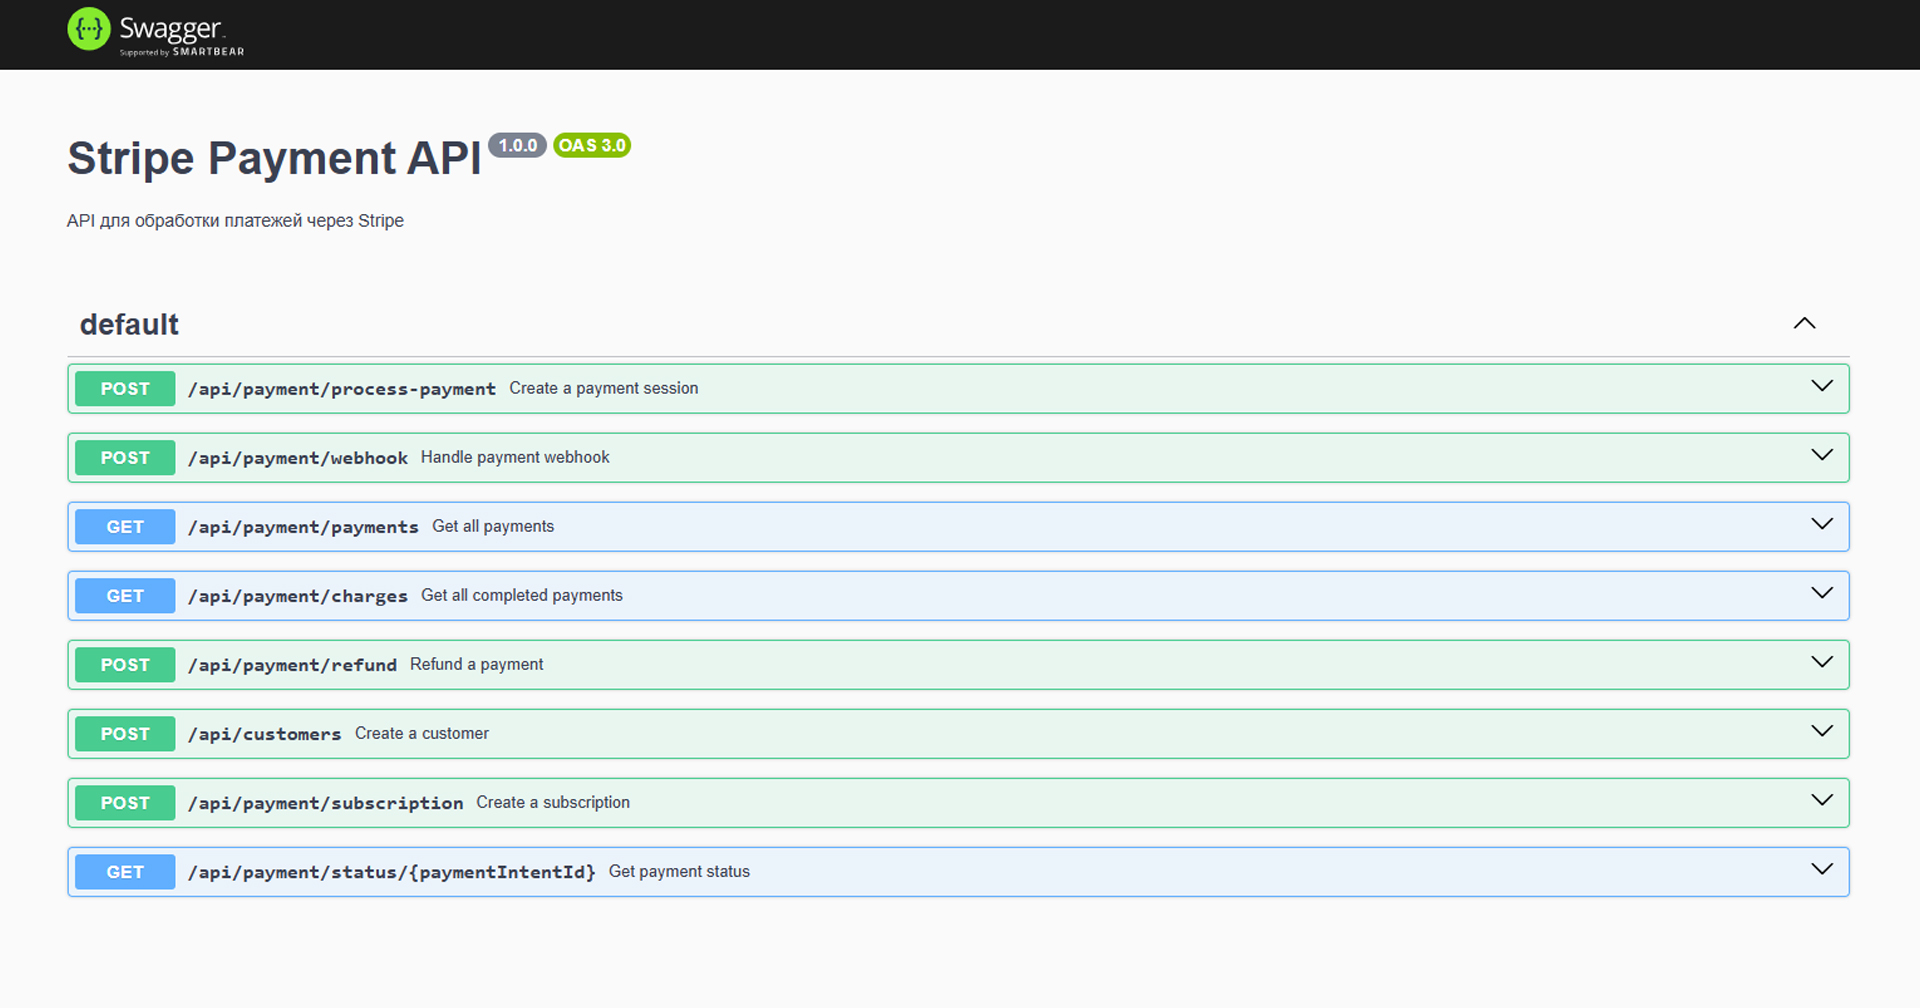
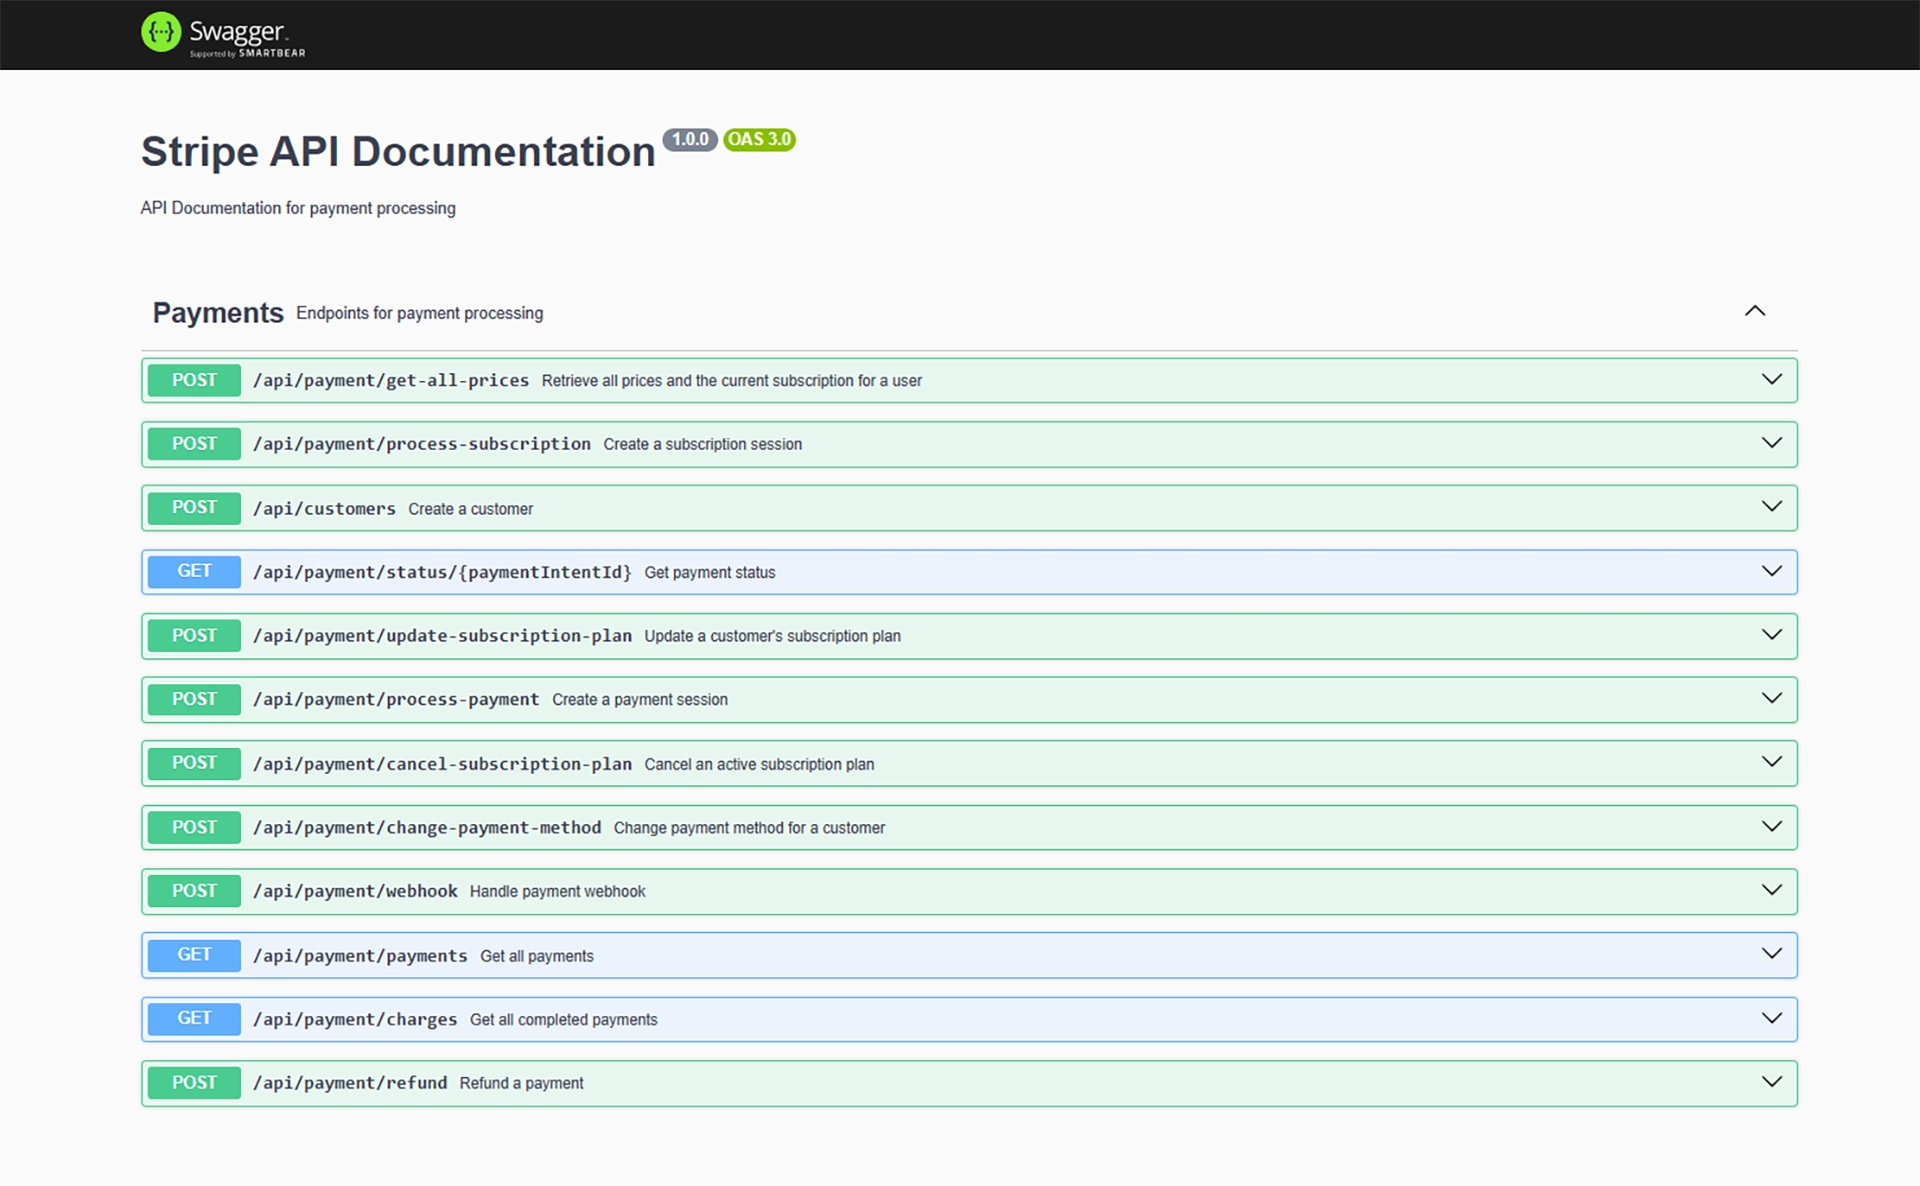
added change payment endpoint + logic, documentation update
added change payment endpoint + logic, documentation update

Changed region(s): [[0.0312, 0.2153, 0.9688, 0.9534], [0.0, 0.0, 1.0, 0.1845]]

diff --git a/server/swagger/5) changePaymentMethod.js b/server/swagger/5) changePaymentMethod.js
@@ -1,0 +1,63 @@
+/**
+ * @swagger
+ * /api/payment/change-payment-method:
+ *   post:
+ *     tags:
+ *       - Payments
+ *     summary: Change payment method for a customer
+ *     description: Creates a session for the Stripe Customer Portal where a user can change their payment method.
+ *     requestBody:
+ *       required: true
+ *       content:
+ *         application/json:
+ *           schema:
+ *             type: object
+ *             properties:
+ *               userEmail:
+ *                 type: string
+ *                 description: "The email of the user whose payment method needs to be changed."
+ *             required:
+ *               - userEmail
+ *     responses:
+ *       200:
+ *         description: Customer Portal session URL created successfully
+ *         content:
+ *           application/json:
+ *             schema:
+ *               type: object
+ *               properties:
+ *                 url:
+ *                   type: string
+ *                   description: "The URL to the Stripe Customer Portal where the user can change their payment method."
+ *                   example: "https://billing.stripe.com/session/xyz123"
+ *       403:
+ *         description: Unauthorized request
+ *         content:
+ *           application/json:
+ *             schema:
+ *               type: object
+ *               properties:
+ *                 message:
+ *                   type: string
+ *                   example: Unauthorized request
+ *       404:
+ *         description: Customer not found
+ *         content:
+ *           application/json:
+ *             schema:
+ *               type: object
+ *               properties:
+ *                 error:
+ *                   type: string
+ *                   example: "Customer not found"
+ *       500:
+ *         description: Internal server error
+ *         content:
+ *           application/json:
+ *             schema:
+ *               type: object
+ *               properties:
+ *                 error:
+ *                   type: string
+ *                   example: "Error message"
+ */

diff --git a/server/controllers/changePaymentMethod.js b/server/controllers/changePaymentMethod.js
@@ -1,0 +1,40 @@
+const stripe = require("../services/stripe");
+const moment = require("moment");
+
+const changePaymentMethod = async (req, res) => {
+  const { userEmail } = req.body;
+
+  try {
+    if (!userEmail) {
+      return res.status(403).json({ message: "Unauthorized request" });
+    }
+
+    // Находим клиента в Stripe по email
+    const customers = await stripe.customers.list({
+      email: userEmail,
+      limit: 1,
+    });
+
+    if (!customers.data.length) {
+      return res.status(404).json({ error: "Customer not found" });
+    }
+
+    const customer = customers.data[0];
+
+    // Создаём сессию Customer Portal
+    const session = await stripe.billingPortal.sessions.create({
+      customer: customer.id,
+      // return_url: "https://yourwebsite.com/account", // URL для возврата после изменения карты
+    });
+
+    // Возвращаем ссылку на Customer Portal
+    res.json({
+      url: session.url,
+    });
+  } catch (error) {
+    console.error(`Error creating Customer Portal session: ${error.message}`);
+    res.status(500).json({ error: error.message });
+  }
+};
+
+module.exports = changePaymentMethod;

diff --git a/server/controllers/index.js b/server/controllers/index.js
@@ -4,6 +4,7 @@ const processPayment = require("./processPayment");
 const processSubscription = require("./processSubscription");
 const updateSubscriptionPlan = require("./updateSubscriptionPlan");
 const cancelSubscription = require("./cancelSubscription");
+const changePaymentMethod = require("./changePaymentMethod");
 const getAllPrices = require("./getAllPrices");
 const callbackWebhook = require("./callbackWebhook");
 const getAllPayments = require("./getAllPayments");
@@ -18,6 +19,7 @@ module.exports = {
   processSubscription: ctrlWrapper(processSubscription),
   updateSubscriptionPlan: ctrlWrapper(updateSubscriptionPlan),
   cancelSubscription: ctrlWrapper(cancelSubscription),
+  changePaymentMethod: ctrlWrapper(changePaymentMethod),
   getAllPrices: ctrlWrapper(getAllPrices),
   callbackWebhook: ctrlWrapper(callbackWebhook),
   getAllPayments: ctrlWrapper(getAllPayments),

diff --git a/server/routes/payment.js b/server/routes/payment.js
@@ -7,6 +7,7 @@ const {
   processSubscription,
   updateSubscriptionPlan,
   cancelSubscription,
+  changePaymentMethod,
   callbackWebhook,
   getAllPayments,
   getAllCharges,
@@ -42,6 +43,13 @@ paymentRouter.post(
   "/cancel-subscription-plan",
   express.json(),
   cancelSubscription
+);
+
+// Change payment method
+paymentRouter.post(
+  "/change-payment-method",
+  express.json(),
+  changePaymentMethod
 );
 
 // Create Payment

diff --git a/README.md b/README.md
@@ -14,14 +14,19 @@ This is a simple React application that integrates Stripe payment processing. Us
 - **API with Endpoints:** The application exposes a set of API endpoints for payment processing, including:
 
 ```bash
-- POST /api/payment/process-payment: Create a payment session.
+- POST /api/payment/get-all-prices: Retrieve all available price plans.
+- POST /api/payment/process-subscription: Initiate a subscription process for a customer.
+- POST /api/payment/update-subscription-plan: Update the subscription plan for an existing customer.
+- POST /api/payment/cancel-subscription-plan: Cancel an active subscription plan for a customer.
+- POST /api/payment/change-payment-method: Create a session for the Stripe Customer Portal where a user can change their payment method.
+- POST /api/payment/process-payment: Initiate a one-time payment session for the customer using Stripe.
 - POST /api/payment/webhook: Handle payment callbacks from Stripe.
-- GET /api/payment/payments: Retrieve all payment intents.
-- GET /api/payment/charges: Retrieve all completed charges.
-- POST /api/payment/refund: Process refunds for payments.
-- POST /api/customers: Create new customers in Stripe.
+- GET /api/payment/payments: Retrieve all payment intents made via Stripe.
+- GET /api/payment/charges: Retrieve all completed charges processed by Stripe.
+- GET /api/payment/refund: Process a refund for a specific payment.
+- POST /api/payment/customers: Create new customers in Stripe.
 - POST /api/payment/subscription: Create subscriptions for customers.
-- GET /api/payment/status/:paymentIntentId: Get the status of a specific payment intent.
+- GET /api/payment/status/:paymentIntentId: Retrieve the status of a specific payment intent using its ID.
 ```
 
 ## 🛠 Tech Stack
@@ -144,13 +149,18 @@ To deploy this app:
 
 This app relies on an external payment processing API at:
 
-- `/api/payment/process-payment`: This endpoint is used to initiate the payment session for Stripe.
-- `/api/payment/process-payment/webhook`: This endpoint is used to handle callback payment data.
-- `/api/payment/process-payment/payments:` This endpoint retrieves a list of all payment intents made via Stripe.
-- `/api/payment/process-payment/charges:` This endpoint retrieves a list of all completed charges processed by Stripe.
-- `/api/payment/refund:` This endpoint is used to process refunds for payments.
-- `/api/customers:` This endpoint allows the creation of new customers in Stripe for future payment processing.
-- `/api/payment/subscription:` This endpoint is used to create subscriptions for customers.
+- `/api/payment/get-all-prices:` This endpoint retrieves all available price plans.
+- `/api/payment/process-subscription:` This endpoint initiates a subscription process for a customer.
+- `/api/payment/update-subscription-plan:` This endpoint updates the subscription plan for an existing customer.
+- `/api/payment/cancel-subscription-plan:` This endpoint cancels an active subscription plan for a customer.
+- `/api/payment/change-payment-method:` This endpoint creates a session for the Stripe Customer Portal where a user can change their payment method.
+- `/api/payment/process-payment:` This endpoint initiates a one-time payment session for the customer using Stripe.
+- `/api/payment/webhook:` This endpoint handles payment callback data (Stripe webhook).
+- `/api/payment/payments:` This endpoint retrieves a list of all payment intents made via Stripe.
+- `/api/payment/charges:` This endpoint retrieves a list of all completed charges processed by Stripe.
+- `/api/payment/refund:` This endpoint processes a refund for a specific payment.
+- `/api/payment/customers:` This endpoint allows the creation of new customers in Stripe for future payment processing.
+- `/api/payment/subscription:` This endpoint creates a subscription for a customer.
 - `/api/payment/status/:paymentIntentId:` This endpoint retrieves the status of a specific payment intent using its ID.
 
 ## 🤝 Contributing
